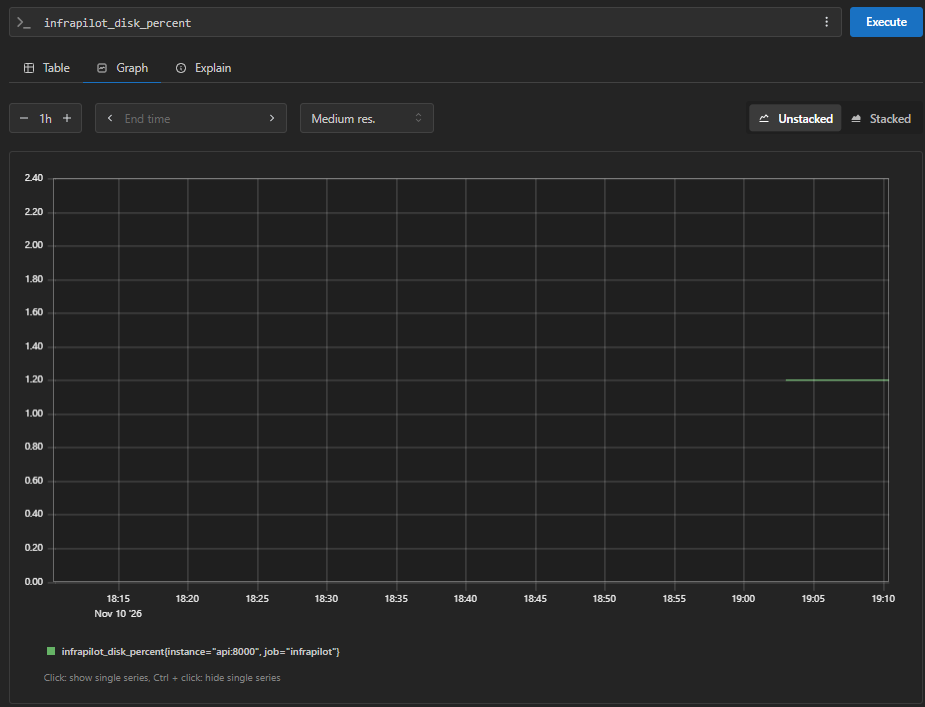
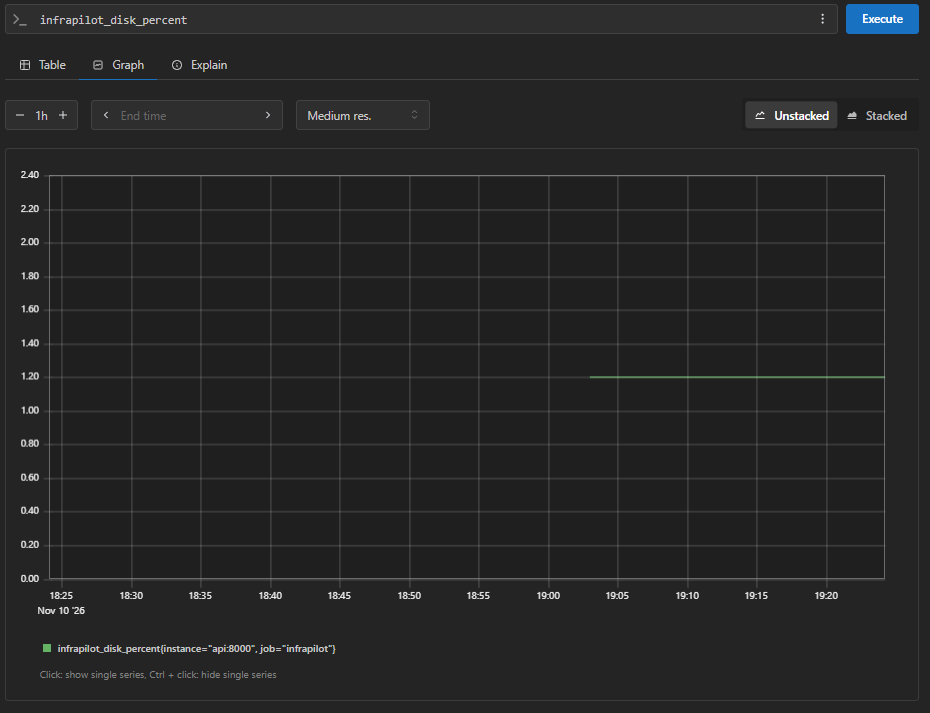
Refresh Prometheus monitoring screenshots

diff --git a/README.md b/README.md
@@ -74,7 +74,7 @@ The live health endpoint returned `{"status":"ok","service":"infrapilot","versio
 
 ## Verification evidence
 
-The following screenshots were captured from the local Docker Compose monitoring stack. They show the `infrapilot` CPU, memory and disk metrics in Prometheus. The target was marked **UP** in the target screenshot; its last scrape was about 6 minutes old at capture time.
+The following screenshots were captured from the local Docker Compose monitoring stack. They show the `infrapilot` CPU, memory and disk metrics in Prometheus. The target was marked **UP**, with the last scrape 3.075 seconds before the target-status screenshot.
 
 <details>
 <summary>CPU metric graph</summary>
